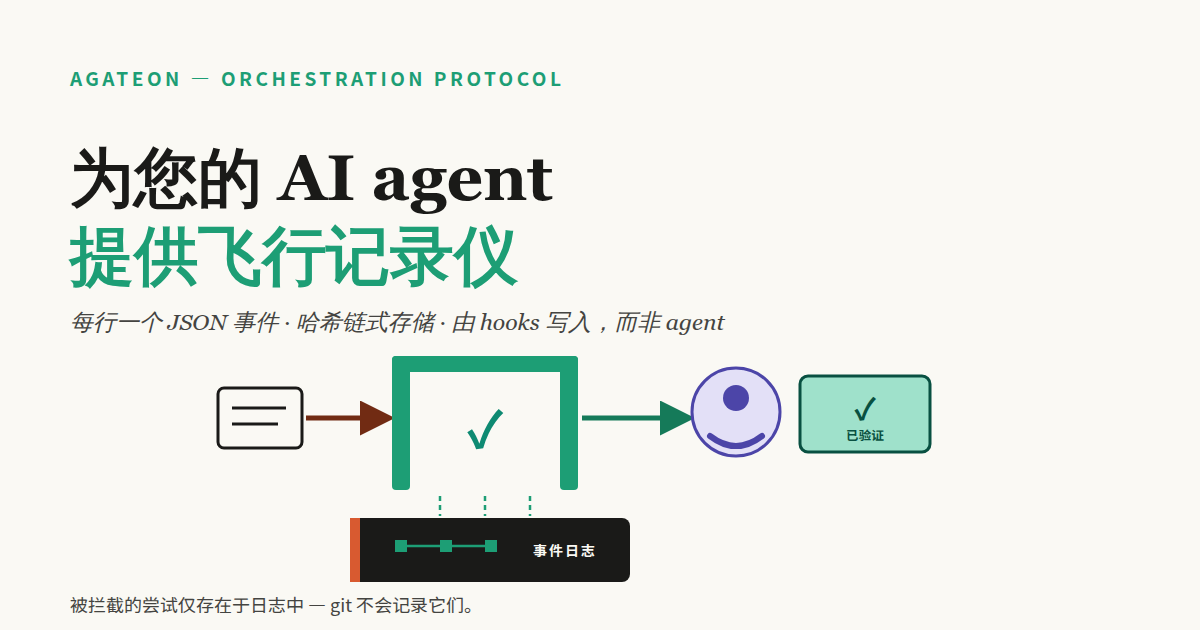
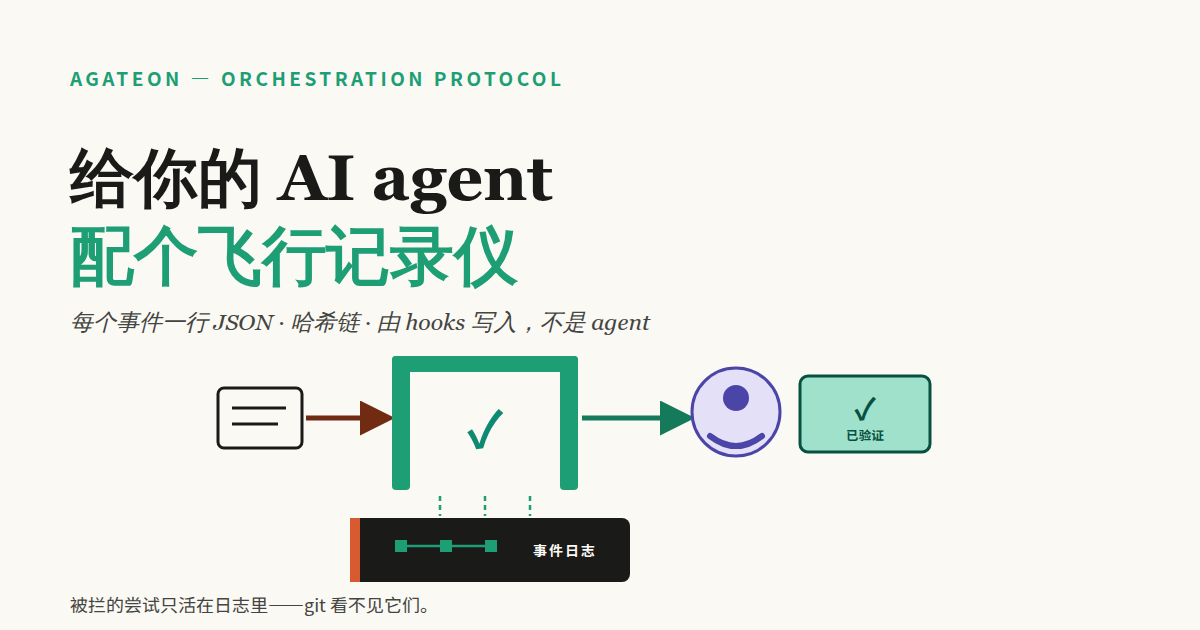
docs(site): 活人感管线——zh 重写不机翻（i18n 脚本改造+标准 §2.1/§9+清单）+ post-07 中文版重做

diff --git a/site/zh/blog/20260905/post-01-give-your-ai-agent-a-flight-recorder.md b/site/zh/blog/20260905/post-01-give-your-ai-agent-a-flight-recorder.md
@@ -1,7 +1,7 @@
 ---
-title: "为你的 AI agent 配备一个飞行记录仪"
+title: "给你的 AI agent 配个飞行记录仪"
 date: 2026-09-05
-description: "大多数团队无法准确统计运行了多少 agent 任务、有多少检查导致了任务停止，或者有多少工作被重复执行——在面对真实工作负载时，记忆往往不可靠。以下是我们构建的最小化事件日志，它揭示了哪些信息（包括它在何处撒谎以及无法观测到什么），以及如何在一个下午内将其“窃取”并应用。"
+description: "上个月你交给 agent 多少活？几次被检查拦下来？多少东西返了工？大多数团队答不上来——包括不久前的我们自己。这篇讲我们怎么用最小的事件日志把过程记下来，日志教了我们什么（它哪儿会骗人、它看不见什么），以及怎么花一个下午把这套做法抄走。"
 tags:
   - ai-agents
   - observability
@@ -9,73 +9,73 @@ tags:
   - engineering-practices
 ---
 
-# 为你的 AI agent 配备一个飞行记录仪
+# 给你的 AI agent 配个飞行记录仪
 
-![封面：一张任务卡片流经一个 gate，同时事件记录落入下方的飞行记录仪盒子中，每一条记录都通过哈希链与前一条相连。标题写着“为你的 AI agent 配备一个飞行记录仪”。](./images/cover.svg)
+![封面：一张任务卡穿过闸门，事件记录逐条落进下方的飞行记录仪盒子，每条都用哈希链连着前一条。标题是"给你的 AI agent 配个飞行记录仪"。](./images/cover.svg)
 
-关于上个月的快速测验：你向 AI agent 交付了多少任务？有多少次检查拦截了任务？又有多少工作是在悄无声息中被重做的？如果你和大多数团队一样（包括我们，直到最近也是如此），你无法回答这些问题，因为工作流没有留下任何记录。因此，我们让系统把所有事情都记录下来，这篇文章记录了日志的实际内容——包括它在哪些地方会误导你，以及它无法看到什么。
+先做个小测验，关于上个月：你交给 AI agent 多少任务？几次被检查拦下来？多少东西悄悄返了工？如果你和大多数团队一样——包括不久前的我们——这些答不上来，因为整个过程没有留下记录。所以我们让它把一切写下来，这篇文章说的就是这份日志实际讲了什么——包括它在哪儿骗人，和它看不见什么。
 
-**TL;DR** —— 默认情况下，Agent 的工作不会留下任何痕迹，因此关于它的所有主张都基于记忆，而记忆不仅是错误的，而且是“自信地”错误。解决方案很简单——每个事件一行 JSON，通过哈希链连接，篡改即会破坏链条。我们的记录在十个任务中产生了约 200 个事件，阅读这些日志让我们学到了三件无法通过其他方式获知的事：朴素的指标会颠倒事实（我们的日志“显示”74% 的检查失败了；但实际次数只有 2 次）；从未提交（commit）的失败对 git 而言是不可见的，它们仅存在于日志中；每个日志都有你应该刻意去映射的盲点。请借鉴我们的词汇表，而不是我们的数据。
+**TL;DR** —— agent 干活默认不留痕，于是关于它的一切论断都靠记忆，而记忆比错误更糟：它是自信的。修复很小——每个事件一行 JSON，用哈希链串起来，篡改即断链。我们的日志记了十个任务、约两百条事件，读它教会我们三件别处学不到的事：天真的指标会把真相整个反转（日志"显示"74% 的检查失败；真实的拦截次数是 2）；没变成 commit 的失败对 git 完全不可见，只活在日志里；每份日志都有盲区，盲区要主动去画。词表可以抄走，我们的数字不行。
 
-## 记忆不是记录
+## 我们自己也答不上来
 
-询问一个使用编码 agent 的团队，你会听到自信的回答：“它运行得很好”、“我们上周表现不佳”、“它为我们节省了大量时间”。这些都不是数据——它们只是最近发生或印象最深刻的事情的残留物。人类擅长记住 AI 在同一个下午写出令人印象深刻且糟糕的代码，但在统计比率和计数方面却毫无用处，而决策恰恰需要这些比率和计数。
+问一个在用 coding agent 的团队，你会听到很自信的回答："挺好用""上周翻车了""省了太多时间"。这些都不是数据——是最近一次印象的残留。人对"AI 一个下午写出过很惊艳和很离谱的东西"记得清清楚楚；对频率和次数完全没概念，而做决策需要的偏偏是频率和次数。
 
-我们以一种尴尬的方式意识到了这一点。当我们坐下来撰写一份诚实的回顾时，我们无法回答关于自身工作流的基本问题：检查到底多久拦截一次任务？工作倒退的频率是多少？我们有观点，但没有数据。而我们构建的软件，其核心职责就是验证——如果我们都在凭“感觉”行事，那么所有人也一定如此。
+我们发现这一点的方式挺丢人的。坐下来写复盘的时候，关于自己的工作流，最基本的问题都答不上来：检查到底拦过几次？活儿倒回去重来过几回？我们有观点，没有数字。而我们做的软件，整个产品就是"验证"——连我们都在凭感觉跑，那所有人都是。
 
-## 最小可用日志
+## 最小可用的一行日志
 
-因此，我们添加了一个飞行记录仪。它不是一个平台，也不是一个仪表盘：而是每个任务对应一个 JSONL 文件，由强制执行 gate 的钩子（hooks）写入——所谓 *gate*，即一个阶段（phase）在工作推进前必须通过的检查——它包含三种事件类型，词汇量小到足以记在脑子里：
+所以我们加了飞行记录仪。不是平台，不是仪表盘：每个任务一个 JSONL 文件，由执行检查的同一批 hooks 写入——gate 是每个阶段往前走之前必须通过的检查——记三类事件，词表小到能背下来：
 
-- **`gate_run`** —— 执行了一次检查：哪个阶段、哪个命令、退出代码是什么、由谁执行。
-- **`state_transition`** —— 任务的阶段发生了移动：从哪里到哪里。
-- **`judge_verdict`** —— [一次独立复核](/zh/blog/20260831/post-01-we-break-our-own-gates)对工作做出了裁定。
+- **`gate_run`** —— 一次检查执行了：哪个 phase、哪条命令、退出码多少、谁跑的。
+- **`state_transition`** —— 任务的阶段动了：从哪儿到哪儿。
+- **`judge_verdict`** —— [独立复核](/zh/blog/20260831/post-01-we-break-our-own-gates)对工作下了裁决。
 
-有两个设计选择比词汇表本身更重要。首先，日志由*强制执行*钩子写入，而不是由 agent 写入——一个会忘记做工作的 agent 同样会忘记记录它。其次，每个事件都携带前一个事件的哈希值，因此文件构成了一个链条：编辑任何一行都会破坏链条，而检查脚本（[`check-events.py`](https://github.com/randomgitsrc/agateon/tree/main/agate/scripts)）会验证链条的完整性、时间戳的单调性以及判定计数。事后可以编辑的日志只是日记；无法编辑的日志才是记录。
+有两个设计决定比词表本身重要。第一，日志由*执行检查的 hooks* 写，不是 agent 写——一个会忘掉干活的 agent，同样会忘掉写日志。第二，每条事件都带着上一条的哈希，整个文件是一条链：改任何一行，链就断，校验脚本（[`check-events.py`](https://github.com/randomgitsrc/agateon/tree/main/agate/scripts)）会验链完整、时间戳单调、裁决次数。事后能改的日志叫日记；改不了的才叫记录。
 
 ## 我们的日志实际说了什么
 
-在十个任务之后，日志中保存了大约 200 个事件。以下是值得你关注的部分：**我们最初对它的解读几乎完全是错误的。**
+十个任务下来，日志里攒了约两百条事件。值得你花时间的部分在这：**我们的第一遍读法，几乎整个读反了。**
 
-原始统计显示运行了 86 次检查，其中 64 次以非零状态退出——失败率高达 74%。如果把这个数据放到仪表盘上，合理的结论是工作流已崩溃。但事实恰恰相反：在我们的状态机中，exit 2 对大多数 phase 而言*就是*通过代码——一个成功的 gate 往往会故意以非零状态退出，因为 shell 惯例无法区分“已通过”、“无需检查”和“带警告通过”这些不同的结果。结合语义来解读，日志显示：**86 次检查，2 次真正的阻塞，84 次正常。** 这种单纯的指标并没有低估我们的问题，而是凭空捏造了问题。
+原始计数说：86 次检查，64 次非零退出——74% 失败率。这数放上仪表盘，结论只有一个：流程坏了。真相正相反：在我们的状态机里，exit 2 *就是*多数阶段的通过码——一次成功的 gate 经常故意非零退出，因为"通过""没东西可查""带警告通过"是三种不同的结果，shell 的退出码约定分不出来。按语义读，日志说的是：**86 次检查，2 次真拦截，84 次干净通过。**天真的指标没有低估我们的问题——它凭空发明了问题。
 
-![Illustration: the same event log read two ways — the naive read reports 74% failed from 64 of 86 non-zero exits, while the semantic read breaks it down to 62 exit-2 passes, 22 exit-0 passes, and 2 real blocks](./images/illustration-two-readings.svg)
+![插图：同一份日志的两种读法——天真读数从 64/86 次非零退出报出"74% 失败"，语义读数拆成 62 次 exit-2 通过、22 次 exit-0 通过、2 次真拦截](./images/illustration-two-readings.svg)
 
-那两次真正的阻塞是我文件中最喜欢的记录，因为它们*不存在*于别处。这两次都是在 implementation phase 对任务进行的 gate 拦截——某天晚上，两个 commit 在一分钟内相继被拒，随后在次日凌晨修复并顺利通过。如果你去 git 历史中查找，会一无所获：**被阻塞的 commit 永远不会成为 commit。** Git 只记录已发布的内容；它没有位置留给那些被阻止的操作。这两次失败存在的唯一地方就是日志——这正是记录（record）与传闻（rumor）的区别。不必只听我们的一面之词：账本就在仓库中，被阻塞任务的 [gate-events.jsonl](https://github.com/randomgitsrc/agateon/blob/main/agate-workspace/tasks/TAG0027-orchestration-semantics/gate-events.jsonl) 可以通过 `"exit":1` 进行 grep 搜索。如果没有它，“我们的 gate 大多直接放行”这一说法将无法证伪，而“gate 曾拦截过两个糟糕的 commit”也会变成一个无人能核实的传说。
+那两次真拦截是我最爱的一段记录，因为它们"不在"的地方很妙。两次都发生在某个任务的实现阶段——晚上连续两次 commit 被拒，前后差一分钟左右，修完之后在第二天凌晨通过。你去 git 历史里找，什么都找不到：**被拦的 commit 永远不会变成 commit。**git 记住了发布出去的东西；它没有地方放"被拦下来的东西"。这两次失败唯一存在的地方就是日志——这恰恰是"记录"和"传闻"的区别。不用信我们，账本就在仓库里，被拦那个任务的 [gate-events.jsonl](https://github.com/randomgitsrc/agateon/blob/main/agate-workspace/tasks/TAG0027-orchestration-semantics/gate-events.jsonl) 拿 grep 搜 `"exit":1` 就能对上。
 
-## 它（目前）无法说明什么
+## 它还说不出来什么（暂时）
 
-一份日志通过承认其局限性来赢得信任，因此，通过询问该文件*无法*告诉我们什么，我们发现了以下局限：
+一份日志要靠承认自己的边界来挣信任。我们的边界，是靠问"这个文件*说不出*什么"找出来的：
 
-- **它涵盖了我们 31 个任务中的 10 个。** 我们是在中途才加入记录器的；早期的工作没有留下事件。对整个项目计算任何“平均值”都是分母上的谎言，所以我们不进行此类计算。
-- **它在发布前结束。** 每个任务的日志都在 judge 的裁决处关闭——release phase 发生在日志关闭之后，因此记录涵盖的是工作过程，而非后续结果。（我们知道这一点；但尚未修复。）
-- **它在结构上对暂停（pauses）视而不见。** 记录器会跳过处于暂停状态的任务——暂停的任务不会写入任何事件。在十个任务中，没有出现过一次暂停事件，我们*无法*从日志中判断这究竟意味着“从未暂停过”还是“暂停是不可见的”。这种歧义是我们的 bug，而撰写这篇文章正是为了将其暴露出来。
-- **零回滚——这是一个发现，而非胜利。** 我们的设计中包含了当检查在后期失败时将工作回退的机制。但在账本时代，它从未触发过一次。与此同时，31 个任务中有 17 个显示了另一种重试——为了质量而重新分发的 subagent——记录在完全独立的文件中。两个工具，两个局部视图；两者都不是完整的工作流。
+- **它只覆盖 31 个任务里的 10 个。**记录仪是中途装的，更早的活儿没有留下事件。任何"全项目平均"都是分母在撒谎，所以我们不算。
+- **它在发布之前就关上了。**每个任务的日志都收在 judge 裁决那里——发布阶段发生在日志关闭之后，记录覆盖的是活儿，不是收尾。（我们知道。还没修。）
+- **它结构上看不见"暂停"。**记录仪会跳过处于暂停状态的任务——暂停的任务一条事件都不写。十个任务里暂停事件是零，但我们没法从日志里告诉你，这到底是"从没暂停过"还是"暂停了看不见"。这个含糊是我们自己的 bug，写这篇文章才把它翻出来。
+- **零回退——这是发现，不是胜利。**我们的设计里有把活儿退回去重来的机制，账本时代它一次都没触发。与此同时，31 个任务里有 17 个记着另一种重试——子代理派发因为质量原因重来——记在另一个完全分开的文件里。两套仪表，各看一半，谁也不是完整的工作流。
 
-最后一点是更深层的教训：**监测漏洞本身也是一种发现。** 日志无法看到的内容，恰恰揭示了你对自身工作流的建模在何处出了错。
+最后这一对是更深的教训：**仪表的盲区本身也是发现。**日志看不见什么，就是在告诉你：你对自己工作流的想象，哪儿是错的。
 
-## 你只需一个下午就能实现自己的版本
+## 你的版本，一个下午
 
-你不需要我们的协议也能做到这一点。核心思路是：挑选出你的工作流中宣称“某事已发生”的时刻，并在它们发生时写入一行 JSON。三种事件类型足以起步：
+这些都不需要我们的协议。整个想法就是：找到工作流里那些"声称某件事发生了"的时刻，各写一行 JSON。三类事件够起步：
 
 ```bash
 echo '{"event":"gate_run","phase":"test","exit":0,"ts":"2026-09-05T10:00:00Z"}' >> .agent-events.jsonl
 ```
 
-然后按此顺序向日志提出三个问题：
+然后按这个顺序问日志三个问题：
 
-1. **最直观的读取结果是什么？** 用你现有的最原始指标来统计失败次数——然后去核实你的退出代码（exit codes）和状态是否真的如你所想。 （我们的结果并非如此。）
-2. **日志中缺失了什么？** 列出你的工作流可能处于的所有状态，然后找出哪些状态没有产生任何事件。每一个静默状态要么是正常的，要么是盲点——你需要明确知道它是哪一种。
-3. **发生了什么 git 无法展示的事情？** 被阻塞的尝试、被拒绝的评审、重新运行的命令——那些没有留下 commit 的工作，往往正是你最需要记录下来的部分。
+1. **天真读法会说什么？**用最糙的指标把失败数一遍——然后去查你的退出码和状态值，是不是你以为的那个意思。（我们的不是。）
+2. **日志缺了什么？**列出你的工作流可能处于的所有状态，找出哪些不产生事件。每个沉默的状态要么没事，要么是盲区——你得主动搞清楚是哪种。
+3. **哪些事 git 看不见？**被拦的尝试、被拒的评审、重跑的命令——没留下 commit 的活儿，往往正是你最想记住的活儿。
 
-只需针对一个任务执行此操作——不是整个平台，仅仅是一个任务——你就已经领先于那些仅凭记忆争论 agent 表现的团队了。
+从一个任务做起——不是平台，一个任务——你就已经领先所有靠记忆争论 agent 的团队了。
 
-## 尝试一下
+## 上手
 
-Agateon 的地址是 [github.com/randomgitsrc/agateon](https://github.com/randomgitsrc/agateon) (MIT) —— 这是这些事件所遵循的协议，其 recorder 已内置于钩子（hooks）中。一行命令安装，无需运行时：
+Agateon 在 [github.com/randomgitsrc/agateon](https://github.com/randomgitsrc/agateon)（MIT）——这些事件来自的协议，记录仪内置在 hooks 里。一行安装，无运行时：
 
 ```bash
 curl -sSL https://raw.githubusercontent.com/randomgitsrc/agateon/main/install.sh | bash
 ```
 
-本文中的数据规模较小且处于早期阶段——十个任务只是一个开始，而非定论。我们在[上一篇文章](/zh/blog/20260903/post-01-you-cant-delegate-what-you-cant-verify)中承诺过，一旦数据积累起来，就会如实公布；这篇就是那篇文章，包含了所有的缺口。但方向已经明确：没有记录的 agent 工作流既不是已验证也不是未验证——它是*不可观测的*，而不可观测意味着关于它的任何争论最终都只能是不了了之。给它装上一个飞行记录仪吧。日志会反驳你的记忆，而日志才是对的。
+这篇里的数字很小、很早期——十个任务是个开头，不是结论。[上一篇](/zh/blog/20260903/post-01-you-cant-delegate-what-you-cant-verify)承诺过，数字攒够了会诚实地说；这就是那篇，连缺口一起交。但方向已经站得住：没有记录的 agent 工作流，谈不上验证没验证——它根本不可观测，而不可观测的意思是，所有关于它的争论最后都打成平手。给它配个飞行记录仪。日志会跟你的记忆吵架，而且日志会赢。

diff --git a/site/guides/BLOG-STANDARDS.md b/site/guides/BLOG-STANDARDS.md
@@ -24,6 +24,20 @@
 - 主动暴露"仍不确定的地方"（post-01 的 *What's still open* 是固定模板）。
 - 语气：工程师对工程师，不是厂商对市场。
 
+### 2.1 活人感硬规则（反 AI 腔，2026-09-05 起）
+
+结构完美、每段收在警句上、节奏均匀——这些"太好了"本身就是 AI 味。初稿后必须做一遍
+**voice pass**，逐条对照：
+
+- **警句密度**：全文最多 2 句"可摘引的对称句"。写初稿时想放在每段结尾的警句，砍到只剩最好的。
+- **节奏不均匀**：段落长短必须拉开——有 5 句的段，也允许只有 1 句的段。连续三段等长 = 重写。
+- **列表克制**：连续加粗引导词的 bullet 列表全文 ≤2 处；能写成散文的不拆列表。
+- **第一人称现场**：每篇至少 1 处具体到能看见的场景（几点钟、我在哪、第一反应是什么），
+  不是"我们注意到"这种悬空的第一人称。
+- **允许不完美**：每篇至少 1 处真实的不确定、自我怀疑或岔路（"我们先试了 X，错了，因为…"）。
+- **voice pass 操作**：初稿完 → 通读一遍 → 圈出所有对称句和"每段结尾的 punchline" →
+  按上面配额删 → 重读节奏。
+
 ## 3. 结构
 
 - **frontmatter 四件套必须齐全**：`title` / `date` / `description` / `tags`。
@@ -102,6 +116,8 @@
 - **评审 checklist**（评审 agent 逐项 PASS / FAIL + 具体修改意见）：
 
   - [ ] 风格：诚实、无营销腔、用证据说话、主动暴露局限
+  - [ ] **活人感（§2.1）**：警句 ≤2、段落节奏有起伏、有第一人称现场细节、列表克制——
+        "每段都收在警句上 / 全文节奏均匀" 判 FAIL
   - [ ] 结构：hook ≤3 句、机制→发现→修复→验证骨架、结尾总结、长文有 TL;DR
   - [ ] 详略：值得深写的有深度，可删的都删了
   - [ ] 通俗：术语首现解释、短句、有例子
@@ -109,6 +125,8 @@
   - [ ] 事实核验（硬项）：文内**每个链接都真实存在**（评审 agent 实际检查）、
         代码路径 / 版本号 / mermaid 语法正确
   - [ ] frontmatter 四件套齐全、build 通过
+  - [ ] **中文版（若在本次范围）**：按 §9 人工重写而非机翻——发现翻译腔
+        （逐句对译痕迹 / 禁用词表命中 / 英语句法直译）判 FAIL；数字与 EN 严格一致
 
 - **流程**：作者写稿 → 评审 subagent 审 → 不过 → 作者按意见迭代 → 再审 →
   **pass 才走 git 管线上线 + cross-post**。
@@ -120,3 +138,33 @@
 - [ ] 每张图过了 6.5 vision 质检
 - [ ] 所有链接 / 路径实测存在
 - [ ] 风格 / 详略 / 通俗自评达标
+- [ ] **voice pass 已做**（§2.1：警句配额、节奏、第一人称现场逐条过）
+- [ ] **zh 重写稿已完成并按 §9 自查**（无翻译腔、数字与 EN 一致、链接指向 /zh/blog/）
+
+## 9. 中文版（重写不翻译，2026-09-05 起）
+
+> **zh 正文一律人工重写，禁止机翻直接发布。** 机翻保英语句法，产出的是精确的翻译腔
+> （长定语链 / 被动式 / "进行 X" / "揭示了"），读感完全不是人写的。i18n 脚本已按此改造：
+> 正文只做存在性检查与告警，**绝不生成、绝不覆盖**；配图翻译与索引生成照常自动。
+
+### 9.1 流程
+
+1. EN 过完评审 gate 定稿后，以中文母语工程师视角**从头重写**——保主张、数字、链接、
+   代码块、结构骨架，句子全部重造。
+2. zh 配图：脚本可自动翻译 SVG 短标签（短文案机翻可接受），但发布前人工过一遍词感
+   （"您"→"你"、"进行解读"→"读"、"仅存在于"→"只活在"），标点用全角。
+3. 重写稿纳入评审范围：评审按 §7 中文版项核翻译腔。
+
+### 9.2 重写规则
+
+- **重写的是论证，不是句子**：允许语序重排、段落合并拆分、例子本地化；不允许逐句对译。
+- **短句优先**：一句一个信息；EN 的一句话可以拆成中文两三句。
+- **禁用词表**（翻译腔信号，命中即改）：揭示 / 旨在 / 值得注意的是 / 总而言之 / 综上所述 /
+  "进行 + 动词"（进行验证→验证）/ "仅存在于" / "很大程度上" / 被动句堆叠。
+- **语气词少量允许**：说白了 / 其实 / 挺离谱的 / 答不上来——每篇 ≤4 处，别撒味精。
+- **技术名词保留 EN**：agent / gate / hook / commit / JSONL / exit code 等不硬翻；
+  CJK-Latin 之间加空格。
+- **事实零漂移**：所有数字、链接、代码与 EN 严格一致；**站内链接指向 `/zh/blog/`**；
+  外链不变。
+- **标点**：全角标点；破折号用"——"；数字与 EN 术语周围留空格。
+- **图片 alt text 也要人话重写**，不直译。
